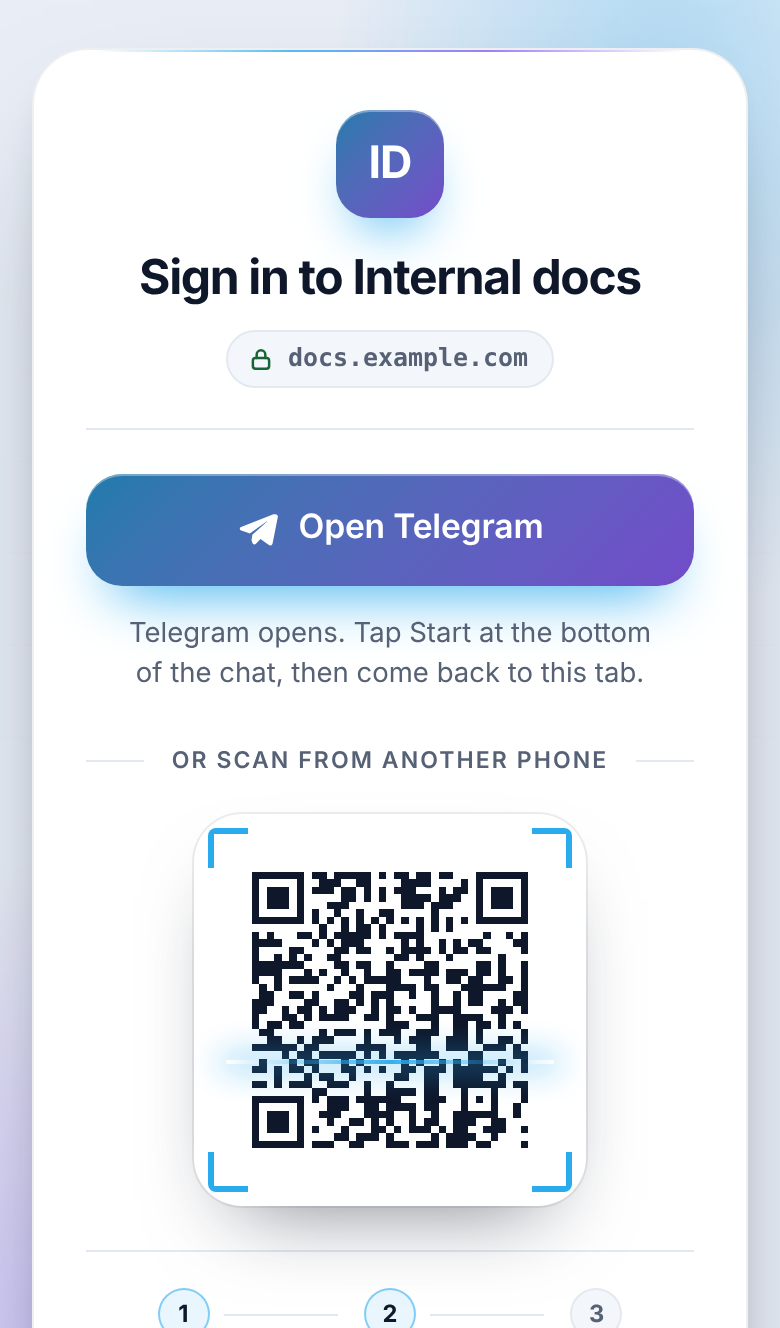
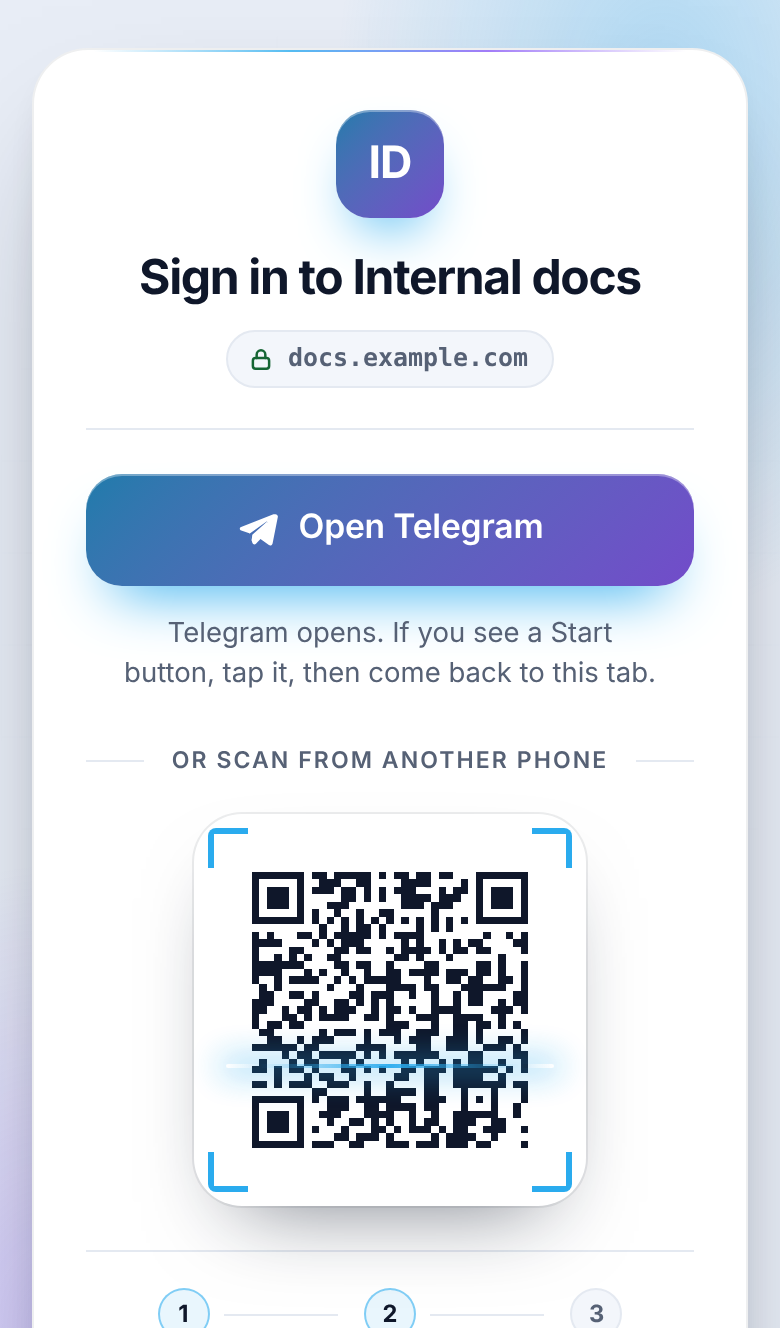
Don't tell everyone to press Start
Telegram only shows a Start button for a chat that hasn't been started (first
use, deleted chat, unblocked bot); otherwise the deep link sends /start itself.
Step 2 now reads "Approve in the chat" and both hints say "if you see a Start
button, tap it".

Claude-Session: https://claude.ai/code/session_01L5bwP6znPb4peNd4xYqgyy

Changed region(s): [[0.1538, 0.4631, 0.8308, 0.5248], [0.3692, 0.7718, 0.6462, 0.8027]]

diff --git a/src/login-page.js b/src/login-page.js
@@ -16,8 +16,8 @@
 export const DEFAULT_BRANDING = {
   title: "Sign in",
   heading: "Sign in with Telegram",
-  subtitle: "Scan the code with the Telegram app on your phone. No phone number, no code to type.",
-  mobileSubtitle: "Telegram opens. Tap Start at the bottom of the chat, then come back to this tab.",
+  subtitle: "Scan the code with the Telegram app on your phone. No phone number, no code to type. If Telegram shows a Start button, tap it.",
+  mobileSubtitle: "Telegram opens. If you see a Start button, tap it, then come back to this tab.",
   orScanText: "or scan from another phone",
   qrHintText: "Telegram on this computer? Click the code.",
   qrLinkTitle: "Open Telegram to sign in",
@@ -29,7 +29,7 @@ export const DEFAULT_BRANDING = {
   mobileLinkText: "Open Telegram",
   stepsLabel: "How it works",
   stepOneText: "Open Telegram",
-  stepTwoText: "Press Start",
+  stepTwoText: "Approve in the chat",
   stepThreeText: "You're in",
   scanEndedHeading: "This sign-in code has ended",
   scanEndedText: "It expired or was already used. Go back to the sign-in page on your computer for a new code.",
